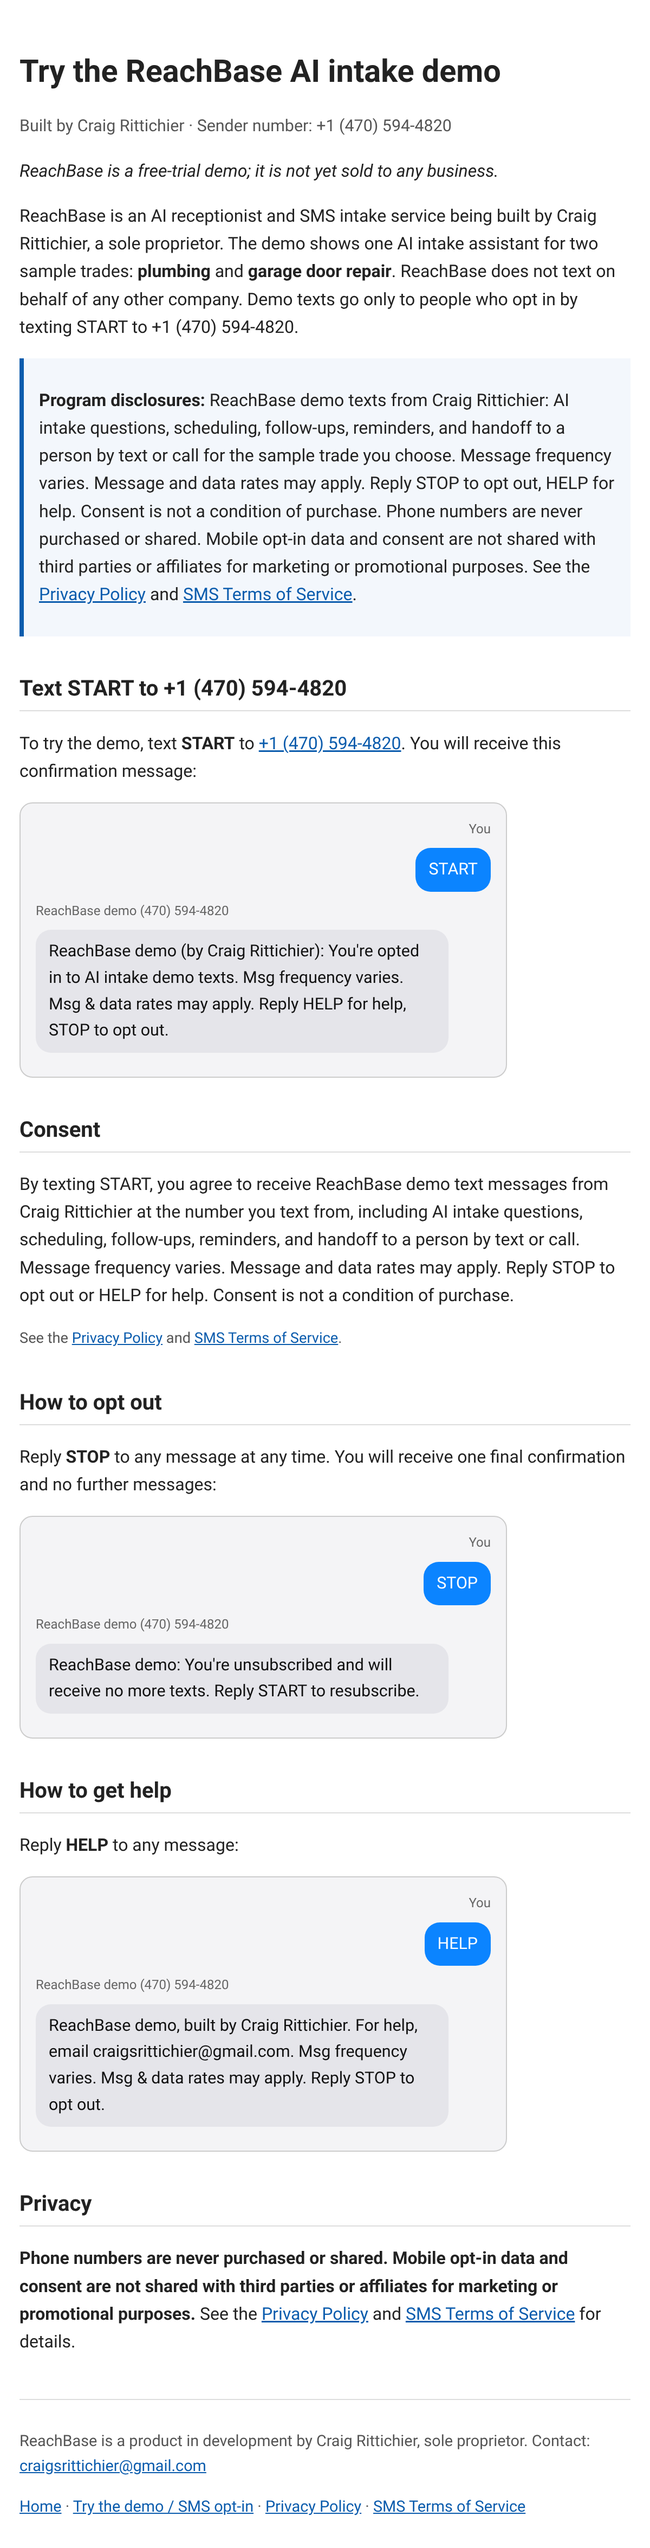
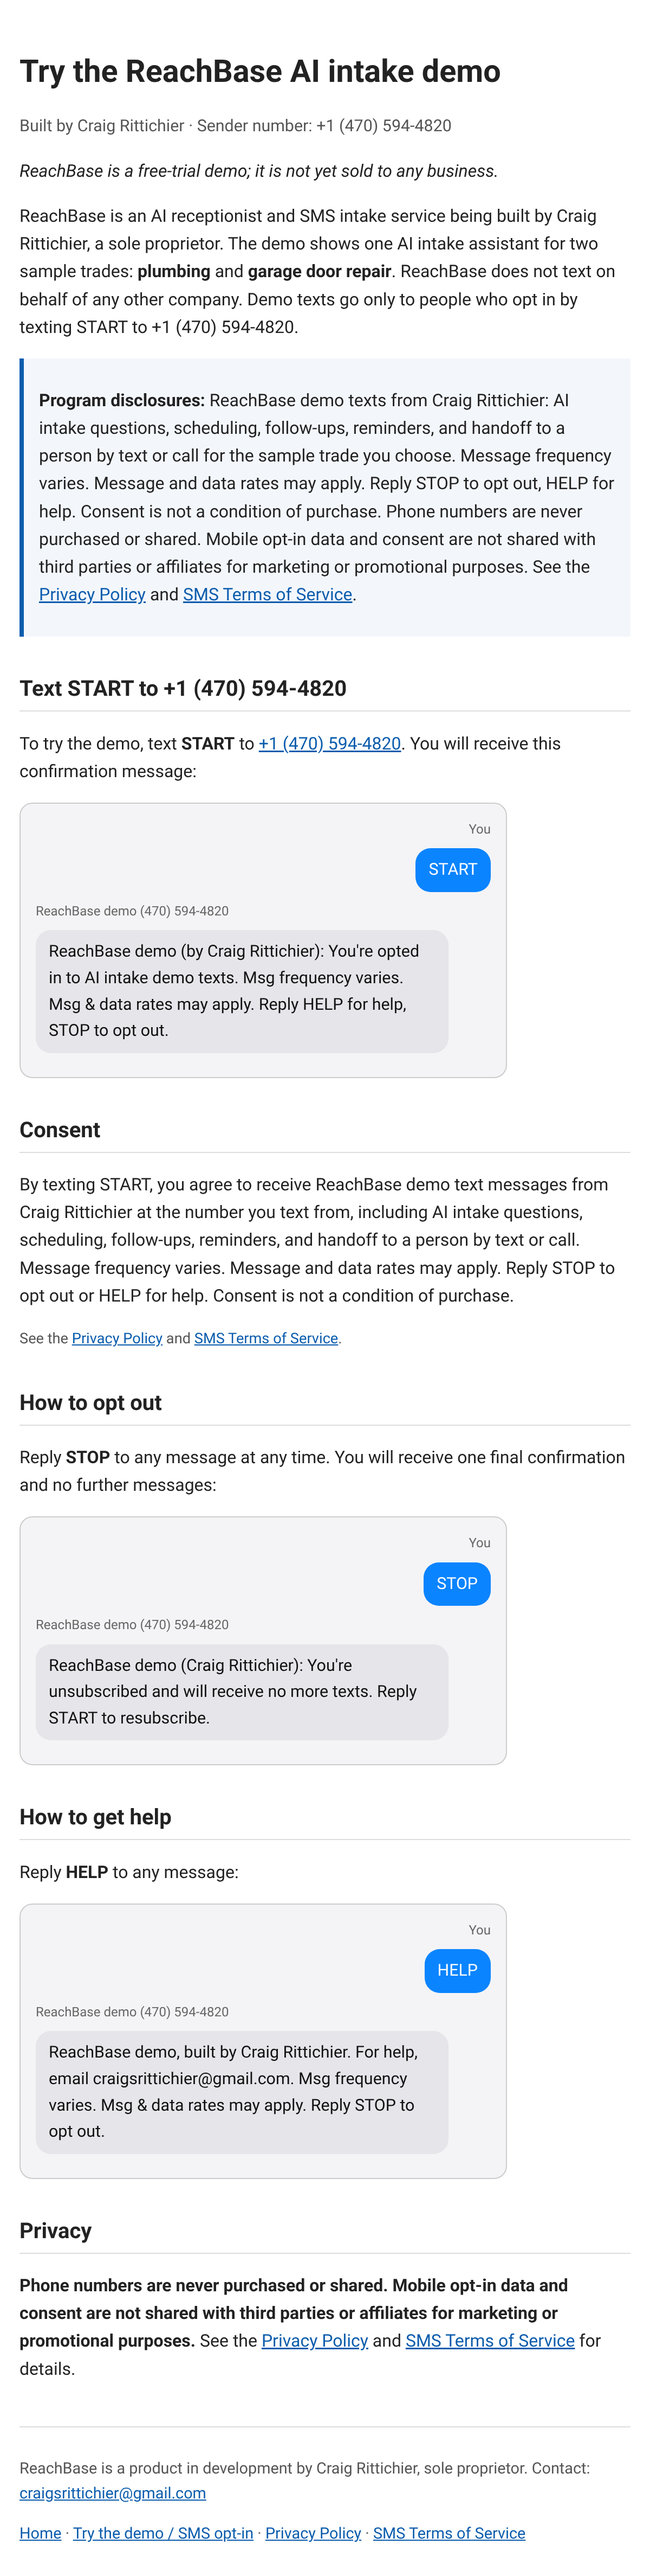
Sync STOP reply with v5 A2P draft; regenerate opt-in screenshot

diff --git a/opt-in.html b/opt-in.html
@@ -63,7 +63,7 @@
   <p class="who r">You</p>
   <div class="bubble out">STOP</div>
   <p class="who">ReachBase demo (470) 594-4820</p>
-  <div class="bubble in">ReachBase demo: You're unsubscribed and will receive no more texts. Reply START to resubscribe.</div>
+  <div class="bubble in">ReachBase demo (Craig Rittichier): You're unsubscribed and will receive no more texts. Reply START to resubscribe.</div>
 </div>
 
 <h2>How to get help</h2>
